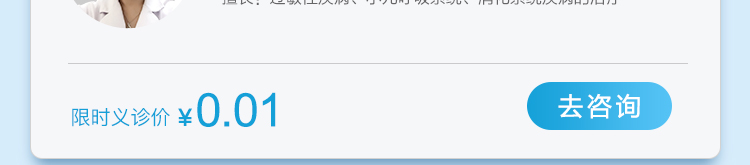
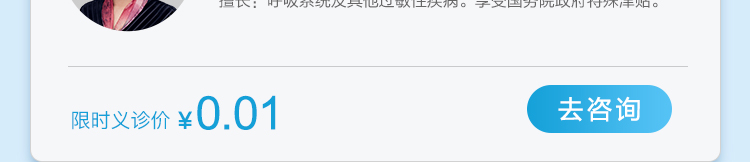
fixed

diff --git a/page.html b/page.html
@@ -93,12 +93,7 @@
 			<div class="one-doctor-2"><img src="./1-3.jpg?rand=0302"/></div>
 		</a>
 
-		<a href="https://www.jk.cn/srilanka/#/doctor-detail/151256800108" class="one-doctor">
-			<div class="one-doctor-1"><img src="./2-1.jpg?rand=0302"/></div>
-			<div class="one-doctor-2"><img src="./2-2.jpg?rand=0302"/></div>
-			<div class="one-doctor-2"><img src="./2-3.jpg?rand=0302"/></div>
-
-		</a>
+	
 
 
 	
